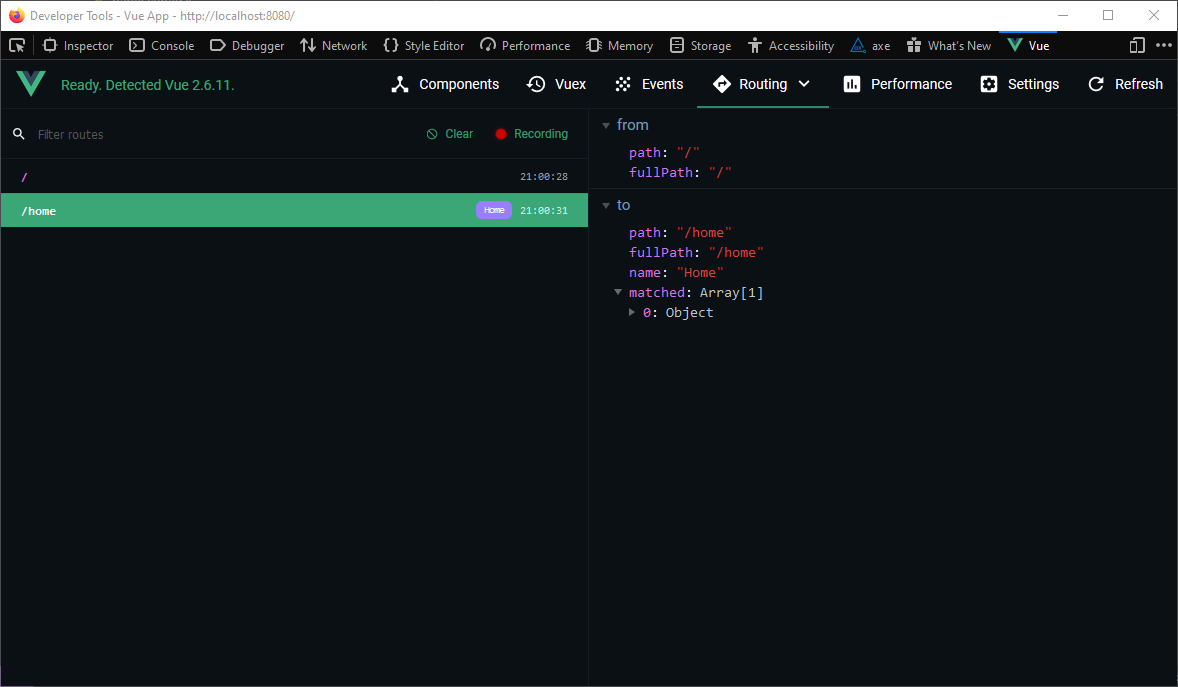
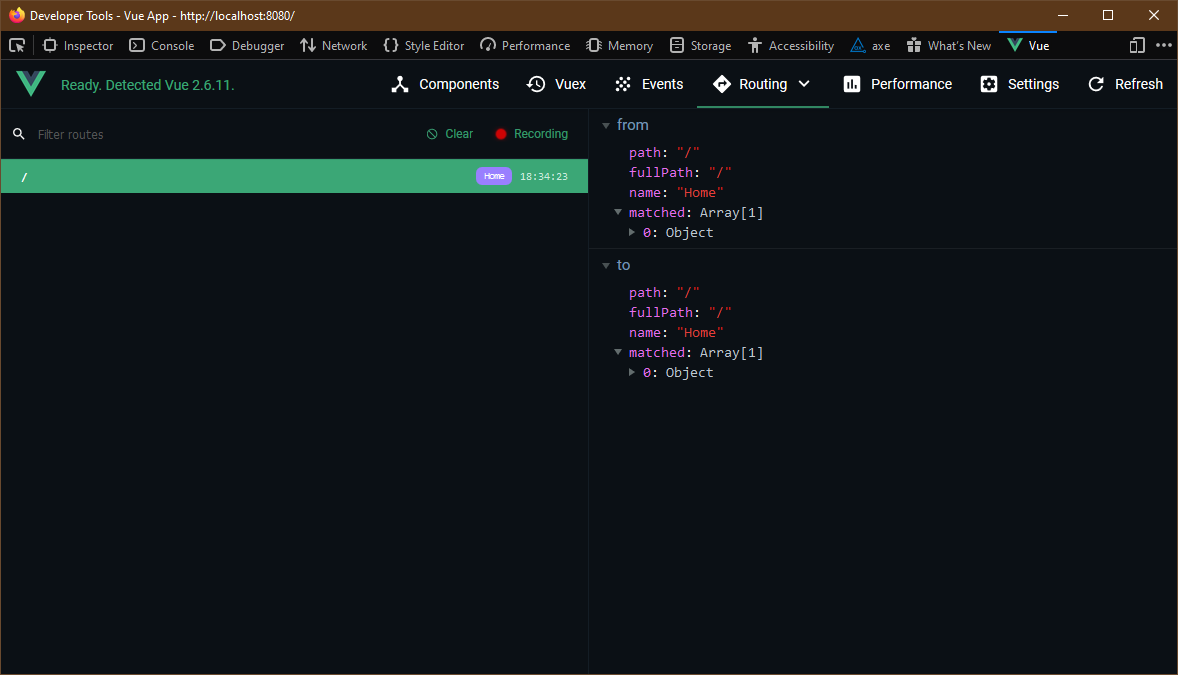
docs: update vue-router, vuex screenshots
- Add detail to guide

diff --git a/content/guides/vuerouter.md b/content/guides/vuerouter.md
@@ -1,13 +1,13 @@
 +++
 title = "Using Vue Router & Vuex"
-date = 2019-12-25T04:56:50+10:00
+date = 2020-07-15T09:10:12-06:00
 weight = 20
 chapter = false
 +++
 
 Wails supports both [Vue Router](https://router.vuejs.org/) for client routing and [Vuex](https://vuex.vuejs.org/) for client state management. Vue Router and Vuex can be used together, or separately.
 
-This guide assumes that you're working with the [Basic Vue](/reference/cli/#basic-vue) template.
+This guide walks through a basic setup of Vue Router and Vuex with Wails and assumes that you're working with the [Basic Vue](/reference/cli/#basic-vue) template.
 
 ## Vue Router
 
@@ -26,6 +26,8 @@ touch src/router.js
 
 In the routes file, import `Vue`, `VueRouter`, and the `HelloWorld` component.
 
+When instantiating the router, the mode must be set to `abstract`.
+
 ```js
 // router.js
 import Vue from 'vue'
@@ -43,6 +45,8 @@ const router = new VueRouter({
 
 export default router
 ```
+
+In `main.js` import the router and pass it to the Vue constructor options. In the mounted lifecyle hook you can set the router's initial route.
 
 ```js
 // main.js
@@ -63,11 +67,14 @@ Wails.Init(() => {
     render: (h) => h(App),
     // add the router to the Vue constructor
     router,
+    mounted() {
+      this.$router.replace('/')
+    },
   }).$mount('#app')
 })
 ```
 
-Use the `<router-link>` tag to change the current route. Create an entry point for the current route using the `<router-view>` tag.
+In the `App.vue` single file component, use the `<router-link>` tag to create links to routes. Create an entry point for the current route using the `<router-view>` tag.
 
 ```vue
 // App.vue
@@ -138,7 +145,7 @@ import * as Wails from '@wailsapp/runtime'
 Wails.Init(() => {
   new Vue({
     render: (h) => h(App),
-    // add the router to the Vue constructor
+    // add the vuex store to the Vue constructor
     store,
   }).$mount('#app')
 })
